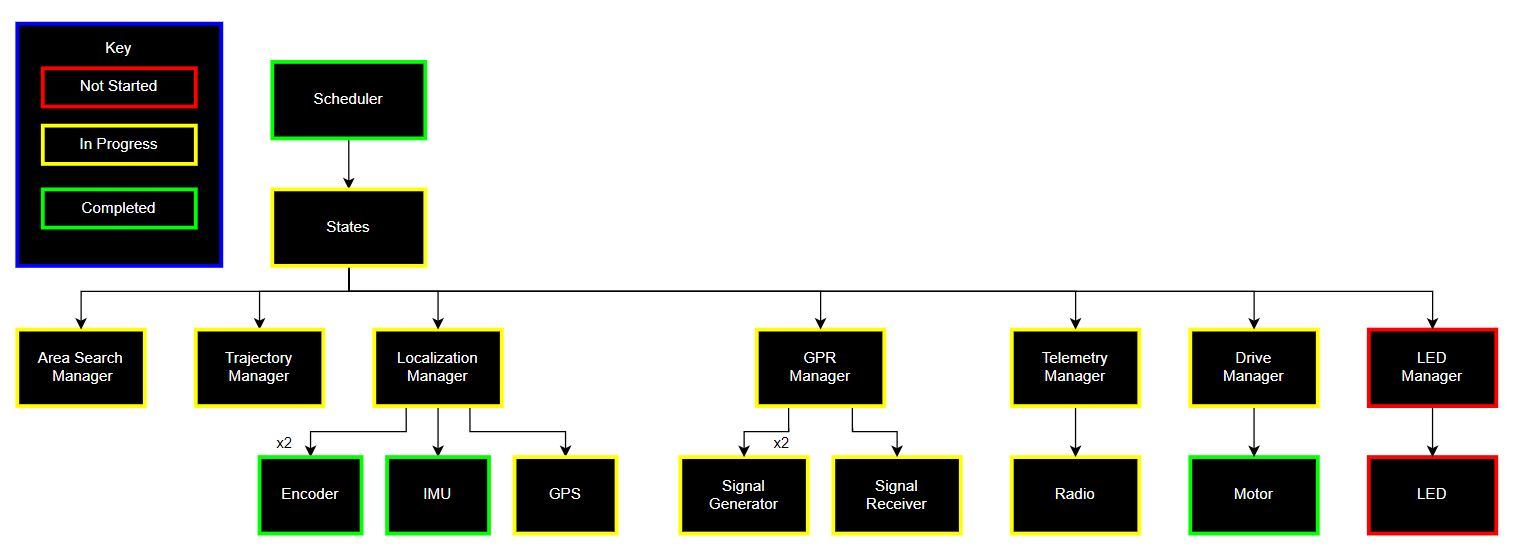
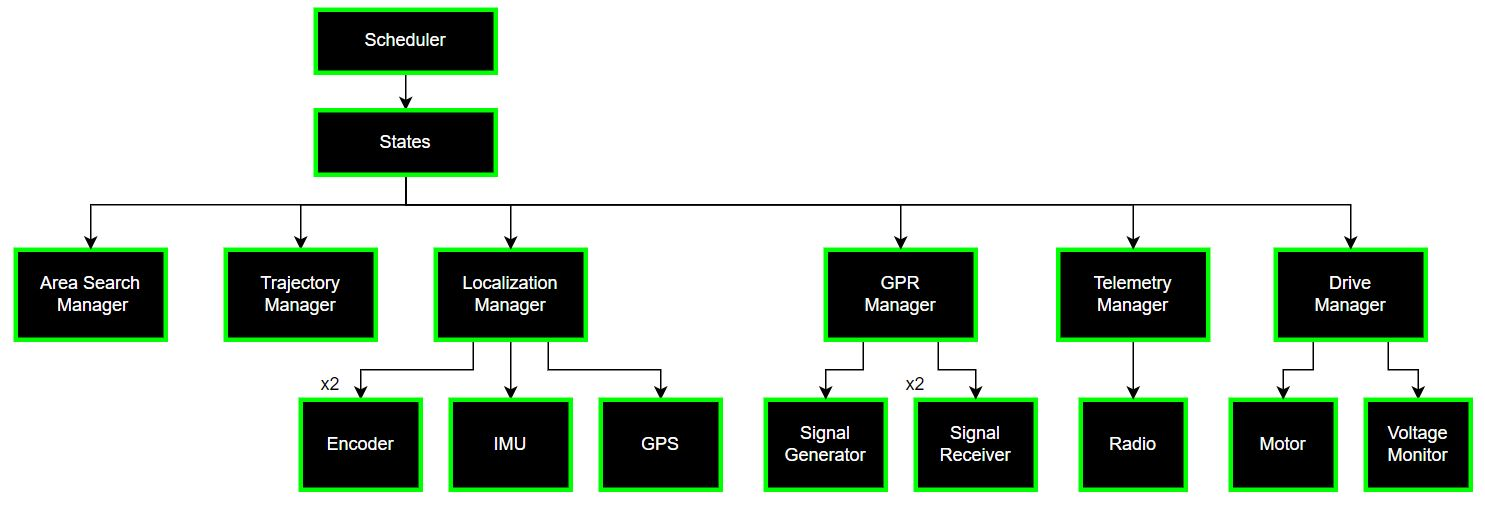
Updating README

diff --git a/README.md b/README.md
@@ -1,7 +1,7 @@
 # Overview
 This is the robot code for a college Capstone project aiming to put a ground-penetrating radar on a treaded robot. The robot's job is to respond to remote-controlled commands, figure out its location, send radar pulses and record the echoes, and telemeter that information back to a computer for further processing.
 
-This software runs on an STM32F767 microcontroller. Expected attached hardware includes an RC remote receiver, radar receiver, radar signal generator and transmitter, 2 quadrature encoders, IMU, GPS, transmitting radio, 2 motor drivers and motors, and a status LED.
+This software runs on an STM32F767 microcontroller. Expected attached hardware includes an RC remote receiver, radar receiver, radar signal generator and transmitter, 2 quadrature encoders, IMU, GPS, transmitting radio, 2 motor drivers and motors, and a battery voltage monitor.
 
 # Dev Environment Setup
 1. Install STM32CubeIDE (https://www.st.com/en/development-tools/stm32cubeide.html)
@@ -24,19 +24,23 @@ This software runs on an STM32F767 microcontroller. Expected attached hardware i
 - Each state has a specific set of tasks to run once at the beginning, every time through its loop, and once at its end
 - State loops return an "end status" as an indicator to the scheduler of an important event
 
-## UI Manager
-- Gathers raw button values from RC Receiver driver
-- Tracks button states from RC Receiver
-- Converts button states into meaningful commands
+## Area Search Manager
+- Generates rectangular search area with equal spaced recording stops
+- Tracks stops made and returns next stop on request
+
+## Trajectory Manager
+- Calculates valid trajectory between two poses
+- Allows trajectory following by returning velocity setpoints based on current pose
 
 ## Localization Manager
 - Gathers sensor data from encoders, GPS, and IMU if available
 - Tracks estimated robot pose, velocity, and uncertainty in those measurements
-- Updates estimated pose, velocity, and uncertainty with new sensor data using Kalman filtering
+- Updates estimated pose, velocity, and uncertainty with new sensor data using particle filter
+- Particle filter applies third dimension to this work, starting at pg. 95: https://docs.ufpr.br/~danielsantos/ProbabilisticRobotics.pdf
 
 ## GPR Manager
 - Controls timing of signal generation, signal reception, and reference clock for signal receiving mixing
-- Provides method for changing state-specific GPR parameters (pulse frequency, pulse width, and sample length)
+- Provides method for changing state-specific GPR parameters (frequency step profile, pulse width, and sample length)
 
 ## Telemetry Manager
 - Holds definition for telemetered packet protocol, including location, GPR frequency, and recorded GPR data in the body
@@ -46,11 +50,6 @@ This software runs on an STM32F767 microcontroller. Expected attached hardware i
 - Scales user drive setpoints as needed to maintain physically attainable movement
 - Adjusts motor setpoints based on drive setpoints and current pose/velocity
 - Passes motor setpoints to motor controller driver
-
-### LED Manager
-- Holds all possible states of LED, each of which maps to a blink pattern
-- Controls timing of LED blink patterns
-- Sends direct on/off commands to LED driver when applicable
 
 # File Organization
 
@@ -80,4 +79,4 @@ This software runs on an STM32F767 microcontroller. Expected attached hardware i
 
 ## System
 - All custom software that doesn't communicate directly with external hardware
-- Consists of scheduler and all managers
+- Consists of scheduler, states, and all managers
